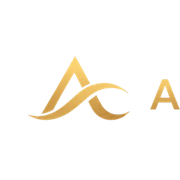
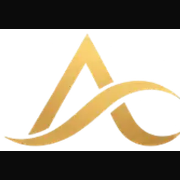
Update branding and show exclusive offers in collapsed sidebar.
Apply the new logo across wordmark, icon, and favicon assets, and add compact exclusive-offer links when the sidebar is collapsed.

diff --git a/src/components/layout/Sidebar.tsx b/src/components/layout/Sidebar.tsx
@@ -273,25 +273,43 @@ export function Sidebar({
         )}
 
         {collapsed && (
-          <div className="premium-nav-section mt-2 flex shrink-0 flex-col gap-1 p-1">
-            {PREMIUM_FEATURES.map((step) => {
-              const isActive = pathname === step.path;
-              const Icon = step.icon;
-              return (
-                <Link
-                  key={step.path}
-                  href={step.path}
-                  title={step.label}
-                  className={clsx(
-                    "premium-sidebar-item group flex items-center justify-center rounded-[var(--radius-md)] py-3",
-                    isActive ? "is-active text-[var(--gold)]" : "text-[var(--gold)]/65"
-                  )}
+          <>
+            <div className="premium-nav-section mt-2 flex shrink-0 flex-col gap-1 p-1">
+              {PREMIUM_FEATURES.map((step) => {
+                const isActive = pathname === step.path;
+                const Icon = step.icon;
+                return (
+                  <Link
+                    key={step.path}
+                    href={step.path}
+                    title={step.label}
+                    className={clsx(
+                      "premium-sidebar-item group flex items-center justify-center rounded-[var(--radius-md)] py-3",
+                      isActive ? "is-active text-[var(--gold)]" : "text-[var(--gold)]/65"
+                    )}
+                  >
+                    <Icon size={18} strokeWidth={1.75} />
+                  </Link>
+                );
+              })}
+            </div>
+
+            <div className="exclusive-offers-section exclusive-offers-section--collapsed mt-2 shrink-0 p-1">
+              {EXCLUSIVE_OFFERS.map((promo) => (
+                <a
+                  key={promo.url}
+                  href={promo.url}
+                  target="_blank"
+                  rel="noopener noreferrer"
+                  className="exclusive-offer-link exclusive-offer-link--collapsed"
+                  title={`${promo.title} (opens in new tab)`}
+                  aria-label={promo.title}
                 >
-                  <Icon size={18} strokeWidth={1.75} />
-                </Link>
-              );
-            })}
-          </div>
+                  <ExternalLink size={18} strokeWidth={1.75} />
+                </a>
+              ))}
+            </div>
+          </>
         )}
       </nav>
 

diff --git a/src/app/layout.tsx b/src/app/layout.tsx
@@ -9,10 +9,10 @@ export const metadata: Metadata = {
   description: "Find high-intent conversations and generate replies that convert — the AI system built to maximize every click.",
   icons: {
     icon: [
-      { url: "/favicon.png?v=4", sizes: "48x48", type: "image/png" },
-      { url: "/favicon-32.png?v=4", sizes: "32x32", type: "image/png" },
+      { url: "/favicon.png?v=5", sizes: "48x48", type: "image/png" },
+      { url: "/favicon-32.png?v=5", sizes: "32x32", type: "image/png" },
     ],
-    apple: [{ url: "/apple-touch-icon.png?v=4", sizes: "180x180", type: "image/png" }],
+    apple: [{ url: "/apple-touch-icon.png?v=5", sizes: "180x180", type: "image/png" }],
   },
   appleWebApp: {
     capable: true,

diff --git a/src/app/globals.css b/src/app/globals.css
@@ -1459,6 +1459,25 @@ html[data-sidebar="collapsed"] {
   color: var(--text-muted);
 }
 
+.exclusive-offers-section--collapsed {
+  display: flex;
+  flex-direction: column;
+  gap: 0.125rem;
+}
+
+.exclusive-offer-link--collapsed {
+  justify-content: center;
+  padding: 0.75rem 0.5rem;
+}
+
+.exclusive-offer-link--collapsed:hover {
+  transform: none;
+}
+
+.exclusive-offer-link--collapsed:hover svg {
+  transform: scale(1.08);
+}
+
 .premium-upgrade-card {
   position: relative;
   display: flex;
